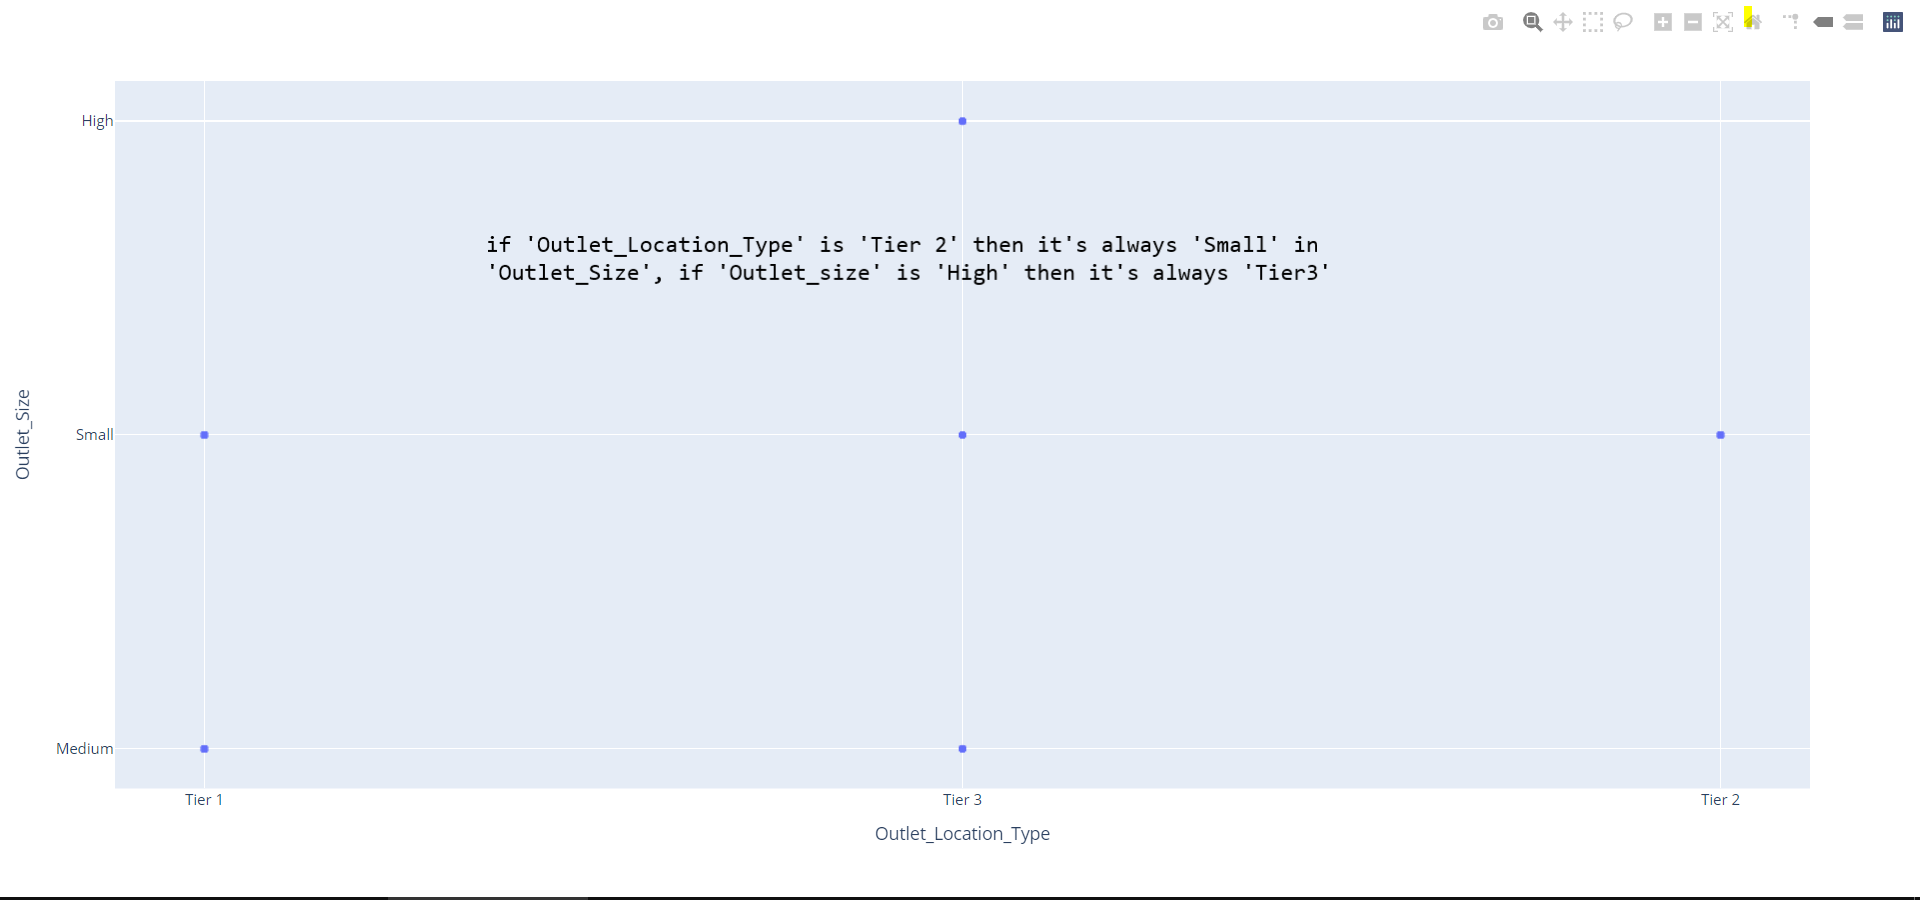
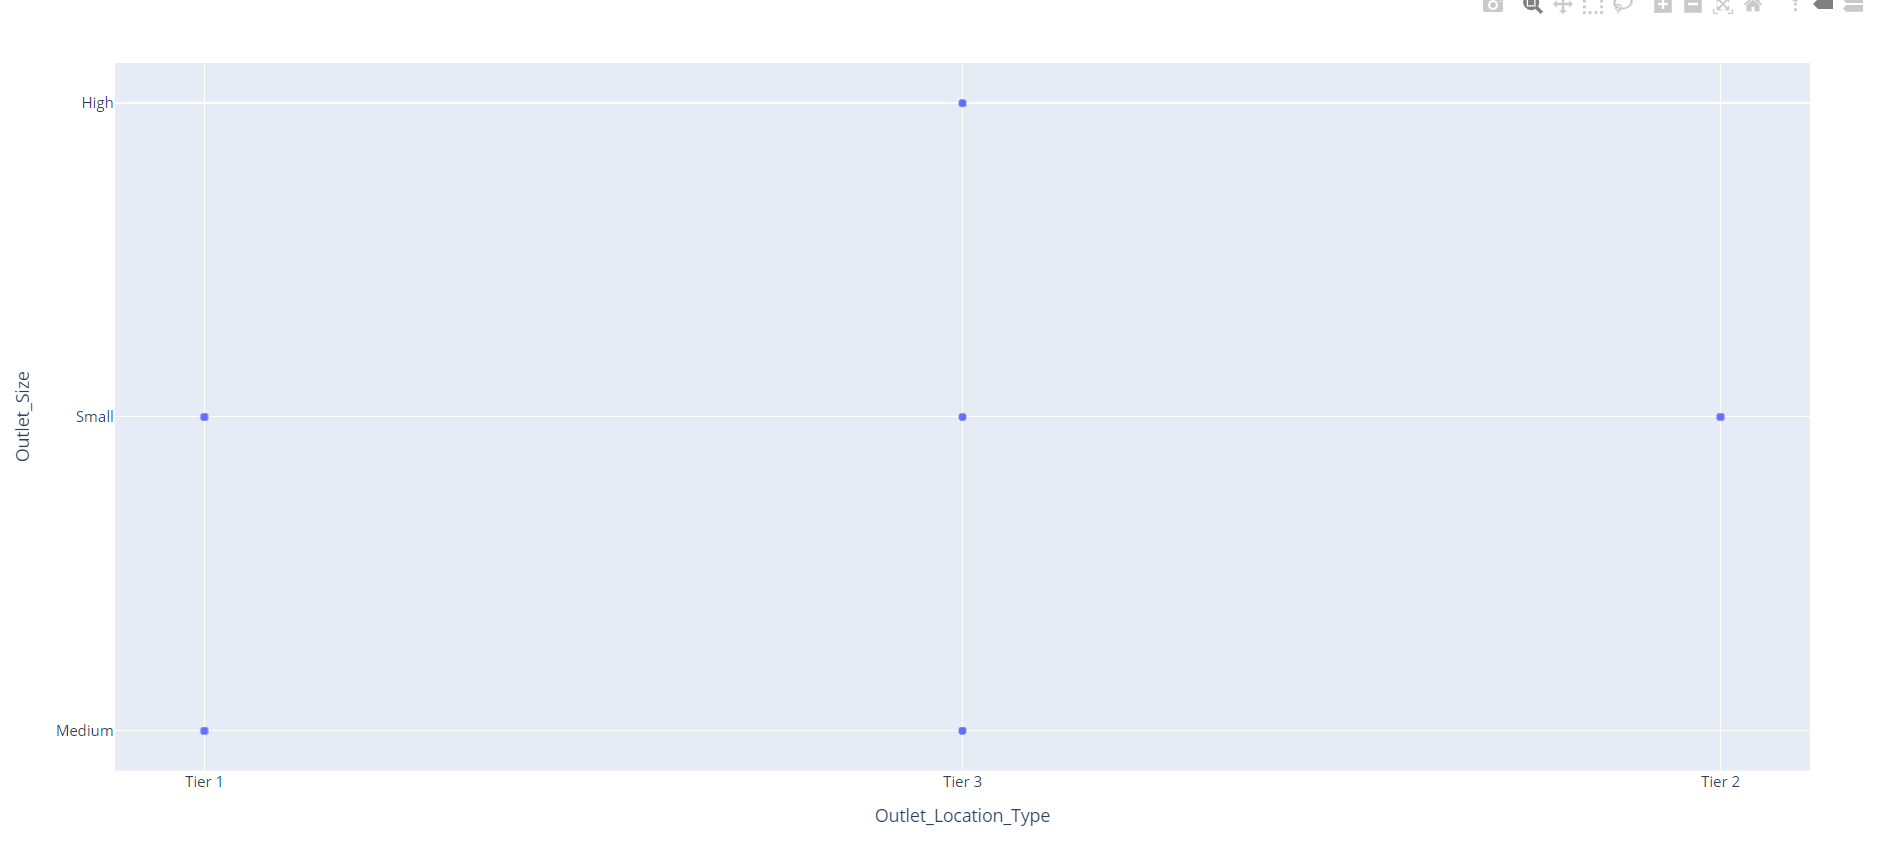
update graphs

diff --git a/main.py b/main.py
@@ -78,13 +78,13 @@ fig = px.box(data, x='Outlet_Size', y='Item_Outlet_Sales')
 fig.show()
 # from above box plot, 'Medium' size outlet has most sales , followed by 'High' and 'Small' outlet
 
-# scatter chart('Outlet_Size' / 'Outlet_Size')
+# scatter chart(Outlet_Size/Outlet_Type)
 fig = px.scatter(data, x='Outlet_Size', y='Outlet_Type')
 fig.show()
 # from above scatter plot, if 'Supermarket type 2' and 'Supermarket type 3'
 # then it's always 'medium' in 'outlet size', if it's 'Grocery Store' then it's always 'Small'
 
-# scatter chart('Outlet_Location_Type' / 'Outlet_Size')
+# scatter chart(Outlet_Location_Type/Outlet_Size)
 fig = px.scatter(data, x='Outlet_Location_Type', y='Outlet_Size')
 fig.show()
 # if 'Outlet_Location_Type' is 'Tier 2' then it's always 'Small' in 'Outlet_Size', if 'Outlet_size' is 'High' then it's
@@ -100,3 +100,7 @@ fig.show()
 # low range products sold in 'Supermarket Type1' which is 'Medium' in size
 # 'Supermarket Type1' which is 'Small' in size has sales of all range of products but store's total
 #                   sales is not so impressive
+
+fig = px.box(data, x='Item_Type', y='Item_Outlet_Sales')
+fig.show()
+
